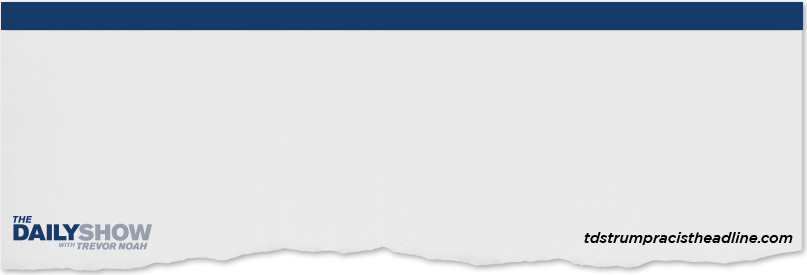
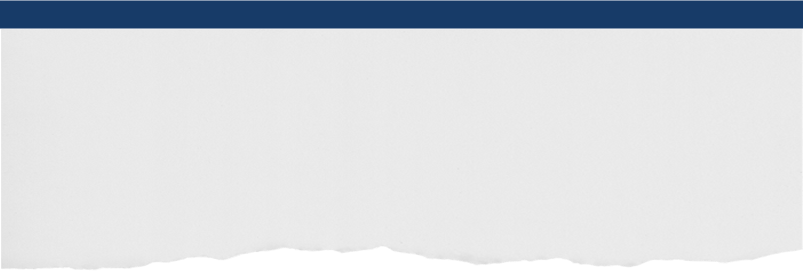
tear fixes

diff --git a/src/components/generator.css b/src/components/generator.css
@@ -59,6 +59,24 @@
   font-style: italic;
 }
 
+.clogo {
+  position: absolute;
+  bottom: 30px;
+  left: 30px;
+  margin: 0;
+}
+
+.trump-tear {
+  position: relative;
+}
+
+.clink {
+  position: absolute;
+  bottom: 30px;
+  right: 30px;
+  margin: 0;
+}
+
 @media only screen and (max-width: 980px) {
   img.trump-title {
     left: -5.3%;
@@ -73,10 +91,28 @@
   .trump-text {
     font-size: 5.5vw;
   }
+  .clogo,
+  .clink {
+    height: 3.2vh;
+  }
 }
 
 @media only screen and (max-width: 520px) {
   .trump-text {
-    font-size: 28px;
+    font-size: 26px;
+  }
+}
+
+@media only screen and (max-width: 460px) {
+  .clogo {
+    left: 10px;
+    bottom: 40px;
+  }
+  .clink {
+    right: 10px;
+    bottom: 40px;
+  }
+  .trump-tear {
+    height: 325px;
   }
 }

diff --git a/src/pages/index.js b/src/pages/index.js
@@ -9,6 +9,8 @@ import bg from "../images/bg.png"
 import button from "../images/button.png"
 import presents from "../images/presents.png"
 import tear from "../images/tear.png"
+import clogo from "../images/clogo.png"
+import link from "../images/link.png"
 import trump_title from "../images/trump_title.png"
 
 class IndexPage extends Component {
@@ -62,6 +64,8 @@ class IndexPage extends Component {
                   <h1 className="trump-text">
                     TRUMP {Verb_Object} OF {Racial_Noun}
                   </h1>
+                  <img src={clogo} className="clogo" />
+                  <img src={link} className="clink" />
                 </div>
               </div>
               <img
